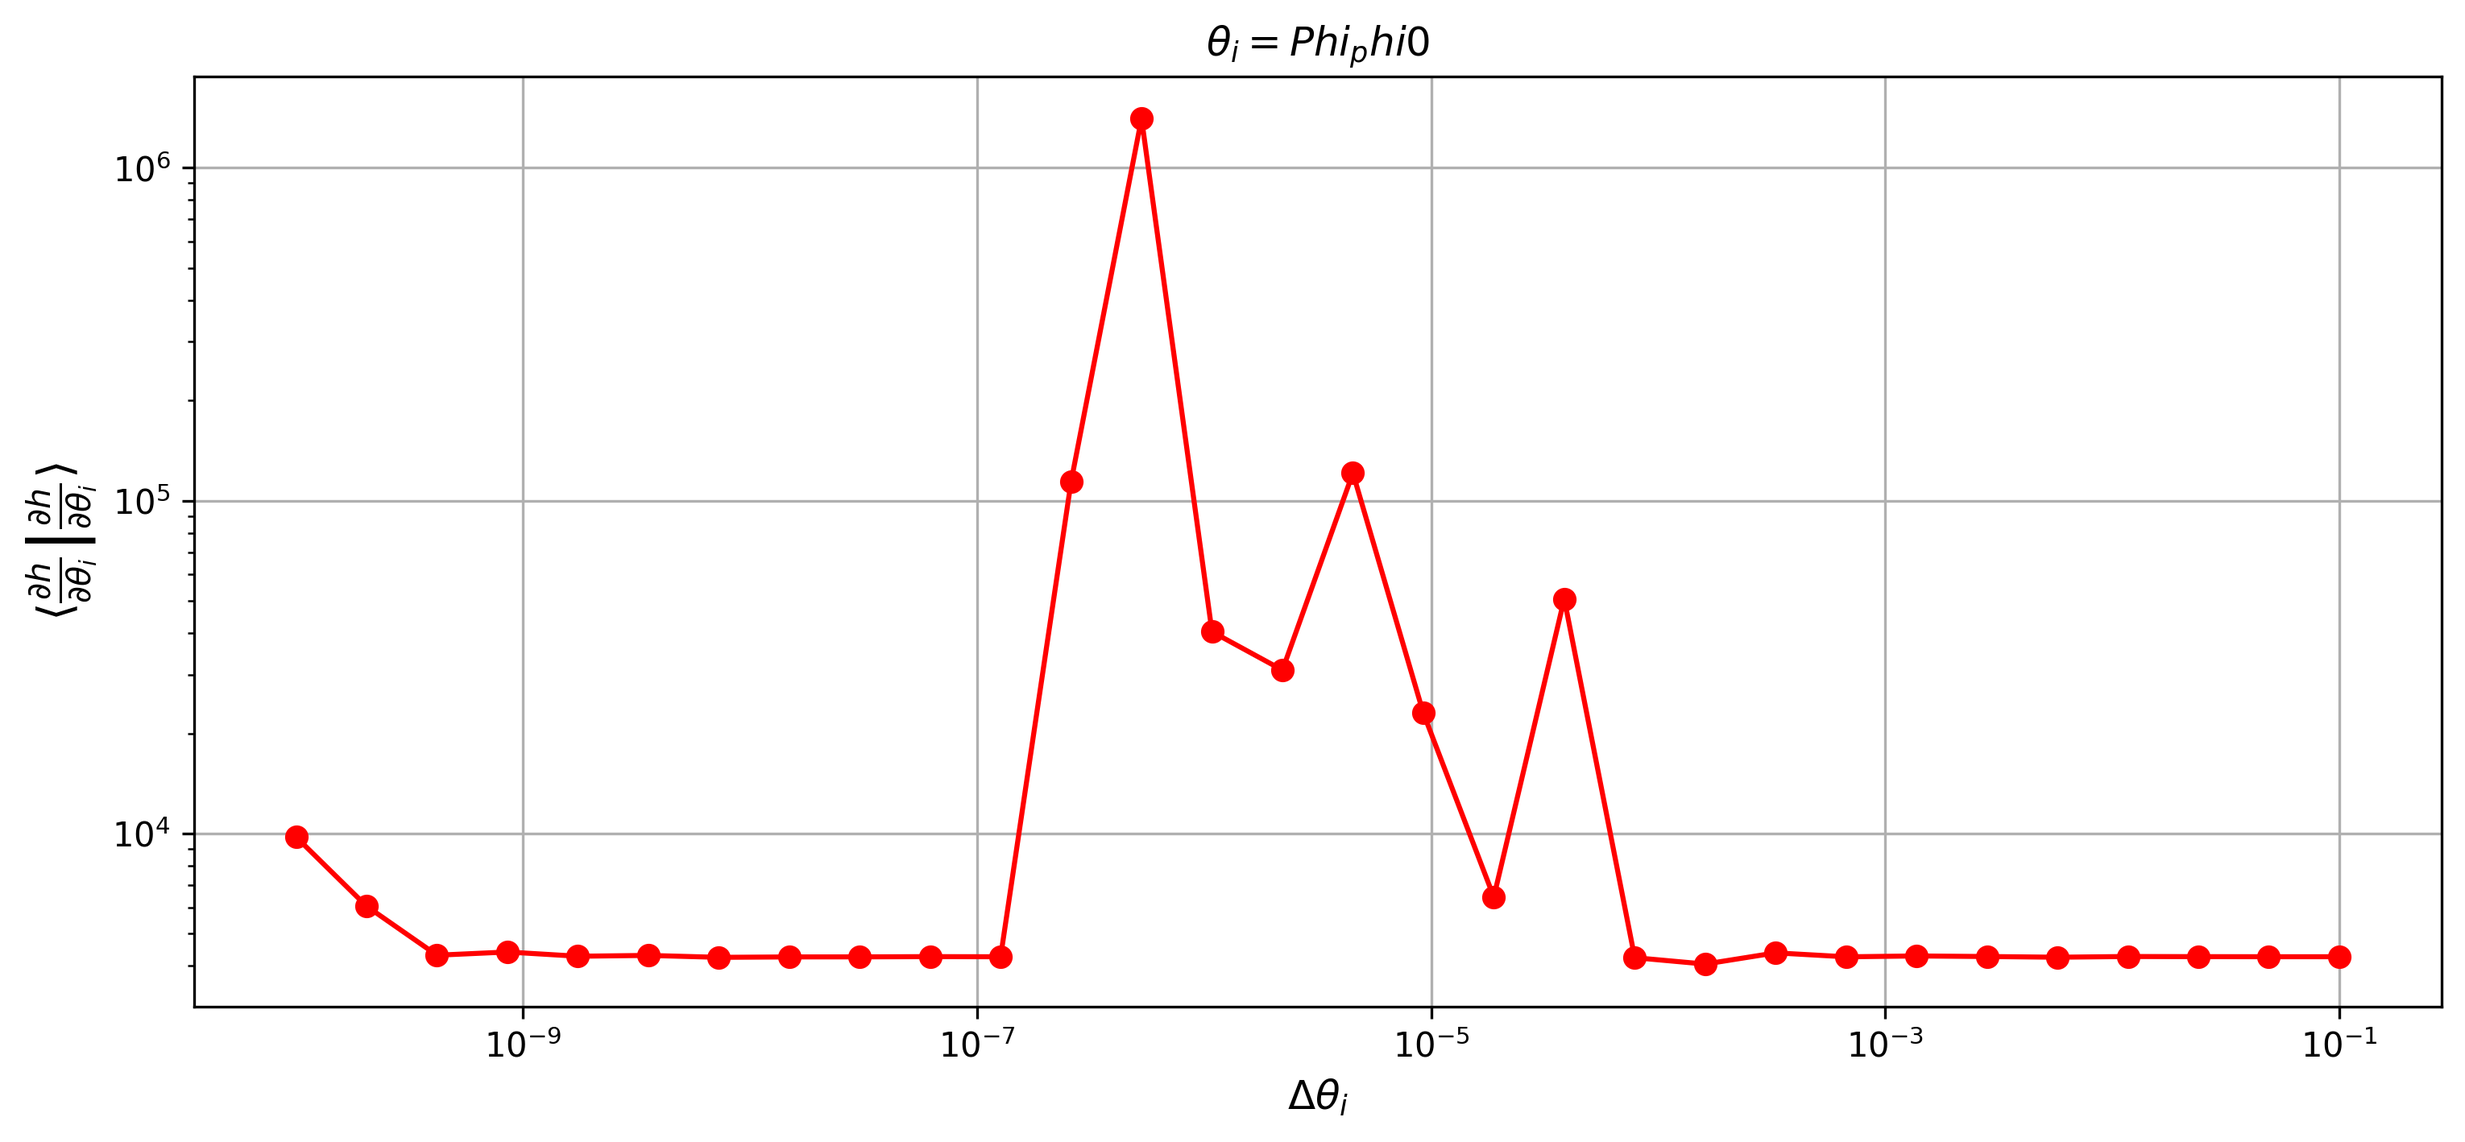
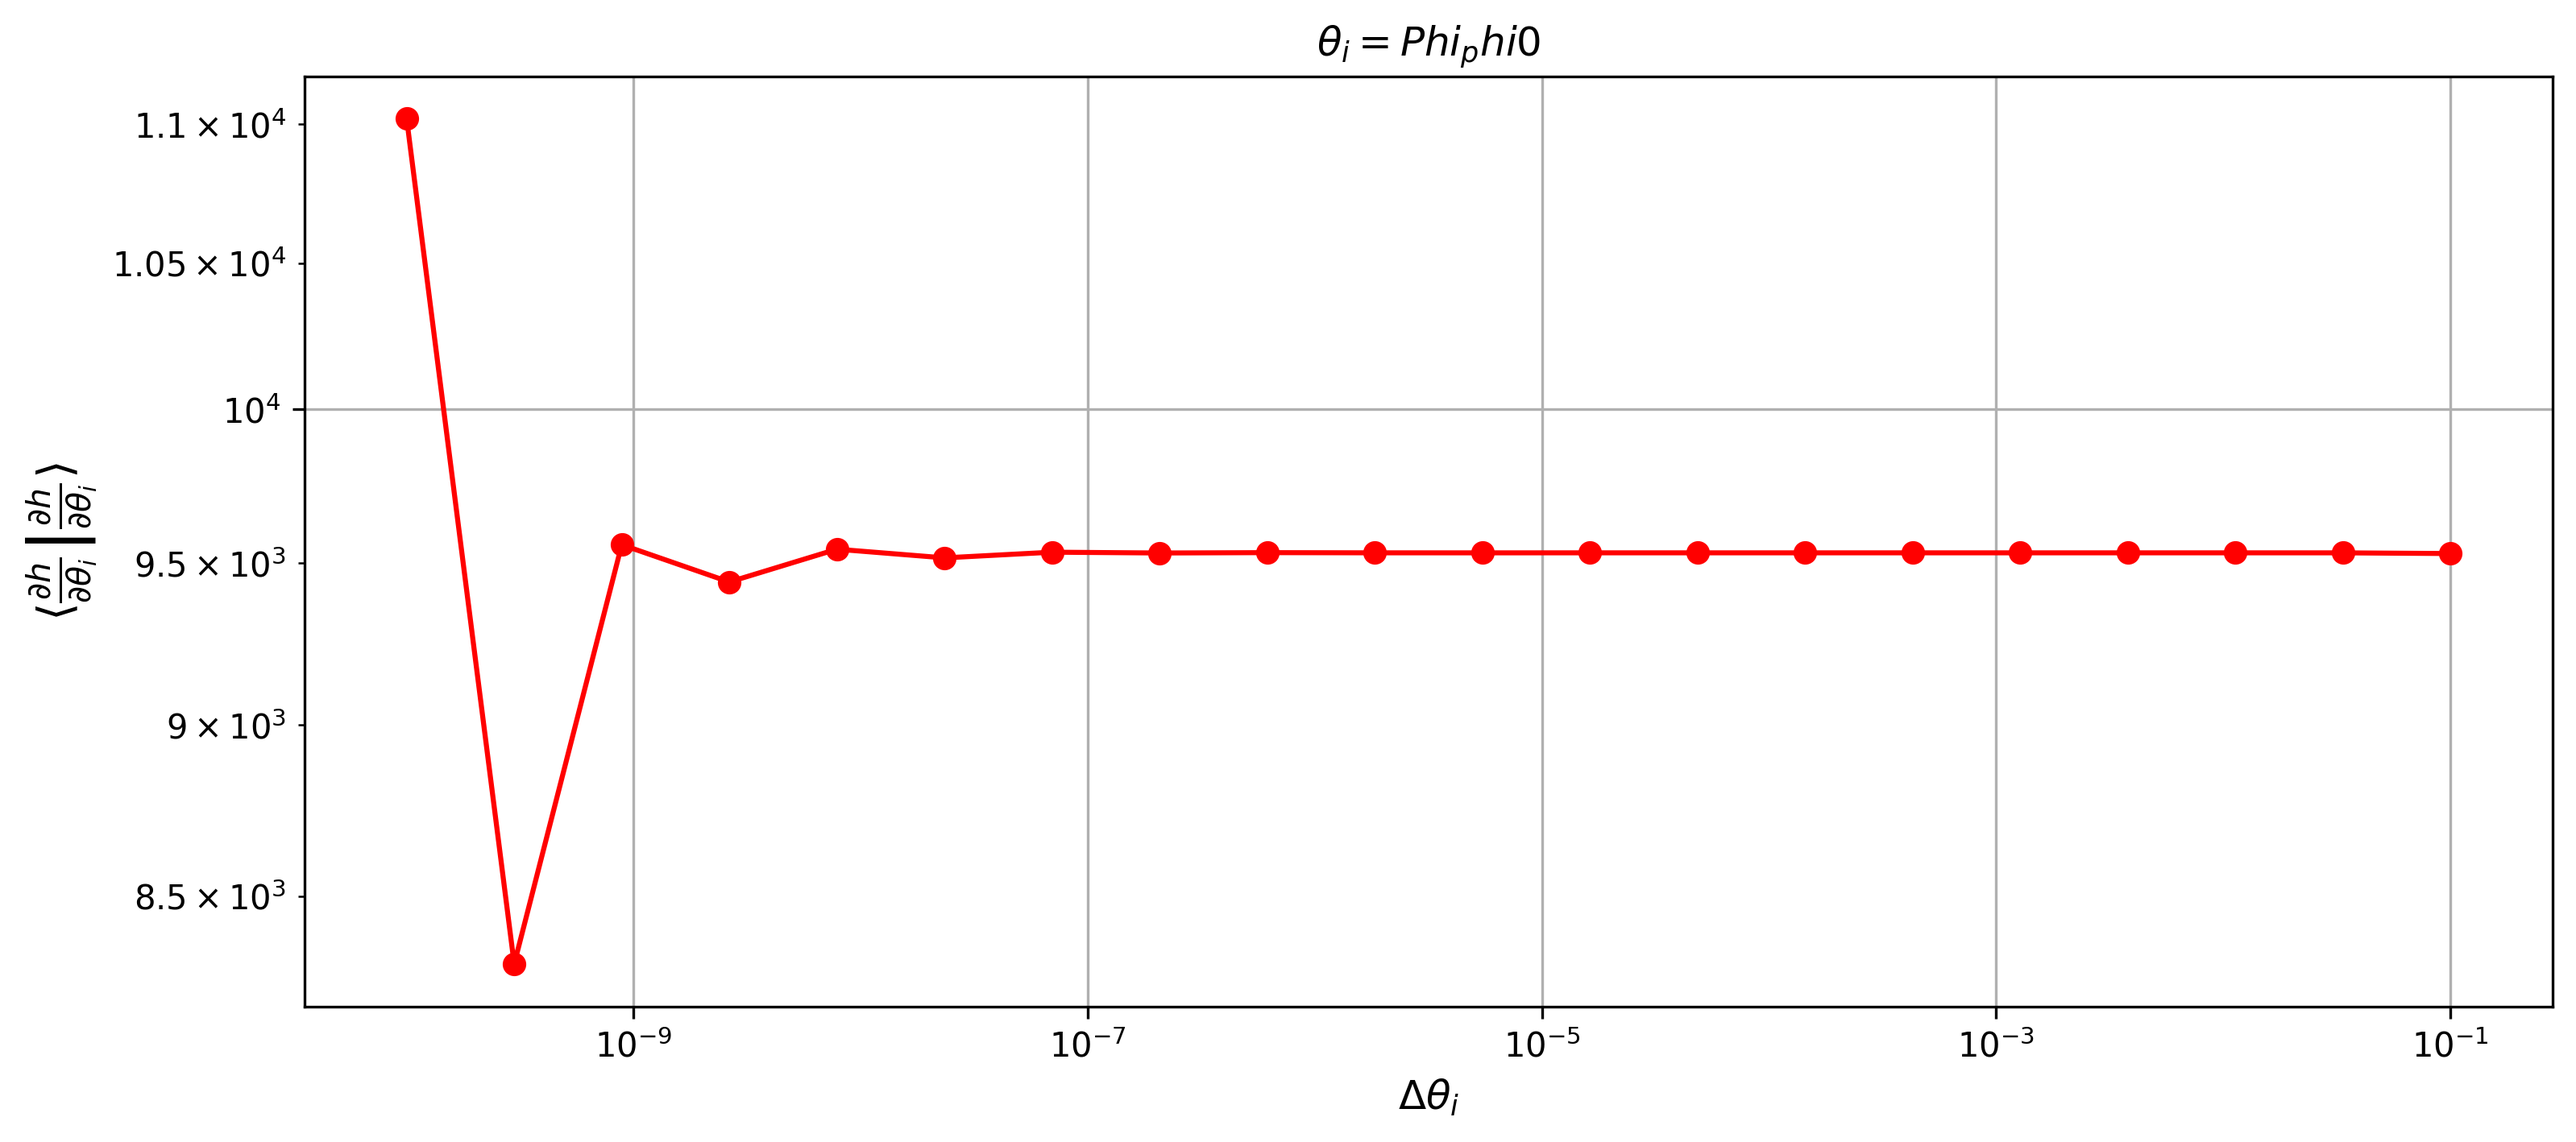
investigating low ecc

diff --git a/scripts/PE_studies/FM_code/measure_e0.py b/scripts/PE_studies/FM_code/measure_e0.py
@@ -66,6 +66,17 @@ t0 = 20000.0  # throw away on both ends when our orbital information is weird
 TDI_channels = ['TDIA','TDIE']
 N_channels = len(TDI_channels)
 
+class transf_log_e_wave():
+    def __init__(self, base_wave):
+        self.base_wave = base_wave
+    def __call__(self, *args, **kwargs):
+        args = list(args)
+        args[4] = np.exp(args[4]) #index of eccentricity on the FEW waveform call
+        return self.base_wave(*args, **kwargs)
+    def __getattr__(self, name):
+        # Forward attribute access to base_wave
+        return getattr(self.base_wave, name)
+
 def noise_PSD_AE(f, TDI = 'TDI2'):
     """
     Inputs: Frequency f [Hz]
@@ -196,9 +207,7 @@ params = [M, mu, a, p0, e0, 1.0, dist, qS, phiS, qK, phiK, Phi_phi0, Phi_theta0,
 print("Running the truth waveform")
 
 Kerr_TDI_waveform = EMRI_TDI_Model(*params)
-# def new_func(*params, **kwargs):
-#     output = EMRI_TDI_Model(*params, **kwargs)
-#     check_nan = cp.sum(cp.isnan(output)kkk
+
 # Taper and then zero_pad signal
 Kerr_FEW_TDI_pad = [zero_pad(Kerr_TDI_waveform[i]) for i in range(N_channels)]
 
@@ -243,30 +252,36 @@ if MAKE_PLOT == True:
 param_names = ['M','mu','a','p0','e0','dist','qS','phiS','qK','phiK','Phi_phi0','Phi_r0']
 output_dir = "/home/ad/burkeol/work/KerrEccentricEquatorialFigures/scripts/PE_studies/FM_code/FM_output"
 
+breakpoint()
 
-# delta = {'M': 1e-2, 'mu': 6.158482110660267e-08, 'a': 2.0484467003036454e-08, 
-#         'p0': 1.4388898580034613e-08, 'e0': 5.4483966567803533e-08, 'dist': 0.0, 
-#         'qS': 0.00021406661993596975, 'phiS': 6.546713737402235e-06, 'qK': 0.00011507599106301309, 
-#         'phiK': 8.562664797438793e-05, 'Phi_phi0': 1e-7, 'Phi_r0': 1e-7}
-# delta =  {'M': 0.0018329807108324375, 'mu': 3.3598182862837814e-08, 'a': 6.096897289553686e-09, 'p0': 8.86137744972479e-08, 'e0': 7.90186524179282e-09, 'dist': 0.0, 'qS': 0.00021406661993596975, 'phiS': 6.546713737402235e-06, 'qK': 3.866344190857403e-05, 'phiK': 8.562664797438793e-05, 'Phi_phi0': 4.138276162229581e-07, 'Phi_r0': 1.8475446331980809e-06}
-# delta = {'M': 0.03359818286283781, 'mu': 6.951927961775605e-07, 'a': 6.146165146438964e-09, 'p0': 1.4738087278964292e-07, 'e0': 6.113412025222568e-07, 'dist': 0.0, 'qS': 0.00021406661993596975, 'phiS': 2.4829656973377497e-07, 'qK': 1.29902139135098e-05, 'phiK': 9.665860477143506e-06, 'Phi_phi0': 0.00254854997140627, 'Phi_r0': 0.0012843997196158193}
-fish = StableEMRIFisher(M, mu, a, p0, e0, 1.0, dist, qS, phiS, qK, phiK,
-                        Phi_phi0, Phi_theta0, Phi_r0, 
-                        dt=delta_t, T=T, EMRI_waveform_gen=EMRI_TDI_Model, 
-                        noise_kwargs=dict(TDI="TDI2"), 
-                        param_names=param_names, stats_for_nerds=True, use_gpu=use_gpu, 
-                        der_order=4., Ndelta=20, filename=output_dir,
-                        deltas = None, #delta,
-                        # log_e = log_e, # useful for sources close to zero eccentricity
-                        CovEllipse=False, # will return the covariance and plot it
-                        stability_plot=True, # activate if unsure about the stability of the deltas
-                        window=None # addition of the window to avoid leakage
-                        )
+EMRI_TDI_log_e_Model=transf_log_e_wave(EMRI_TDI_Model) 
 
-# Compute SNR and FMs
-SNR = fish.SNRcalc_SEF()
-fim = fish()
-cov = np.linalg.inv(fim)
-FM_direc = "/home/ad/burkeol/work/KerrEccentricEquatorialFigures/scripts/PE_studies/Data/Cov_Matrices/FM_cov_matrices/"
-np.save(FM_direc + name_file + ".npy",cov)
+eccentricity_vec = np.asarray([1e-1,1e-2,1e-3,1e-4,1e-5,1e-6,1e-7])
+
+e0_from_FM = []
+for e0 in eccentricity_vec:
+    fish = StableEMRIFisher(M, mu, a, p0, e0, 1.0, dist, qS, phiS, qK, phiK,
+                            Phi_phi0, Phi_theta0, Phi_r0, 
+                            dt=delta_t, T=T, EMRI_waveform_gen=EMRI_TDI_log_e_Model, 
+                            noise_kwargs=dict(TDI="TDI2"), 
+                            param_names=param_names, stats_for_nerds=True, use_gpu=use_gpu, 
+                            der_order=4., Ndelta=20, filename=output_dir,
+                            deltas = None, #delta,
+                            log_e = True, # useful for sources close to zero eccentricity
+                            CovEllipse=False, # will return the covariance and plot it
+                            stability_plot=True, # activate if unsure about the stability of the deltas
+                            window=None # addition of the window to avoid leakage
+                            )
+
+    # Compute SNR and FMs
+    SNR = fish.SNRcalc_SEF()
+    fim = fish()
+    cov = np.linalg.inv(fim)
+    diag_vals = np.sqrt(np.diag(cov))
+    e0_from_FM.append(diag_vals[4])
+
+    FM_direc = "/home/ad/burkeol/work/KerrEccentricEquatorialFigures/scripts/PE_studies/Data/Cov_Matrices/FM_cov_matrices/measurability_e0/"
+    np.save(FM_direc + f"FM_e0_{e0}.npy",cov)
+    np.save(FM_direc + f"e0_from_FM.npy", e0_from_FM)
+
 breakpoint()
